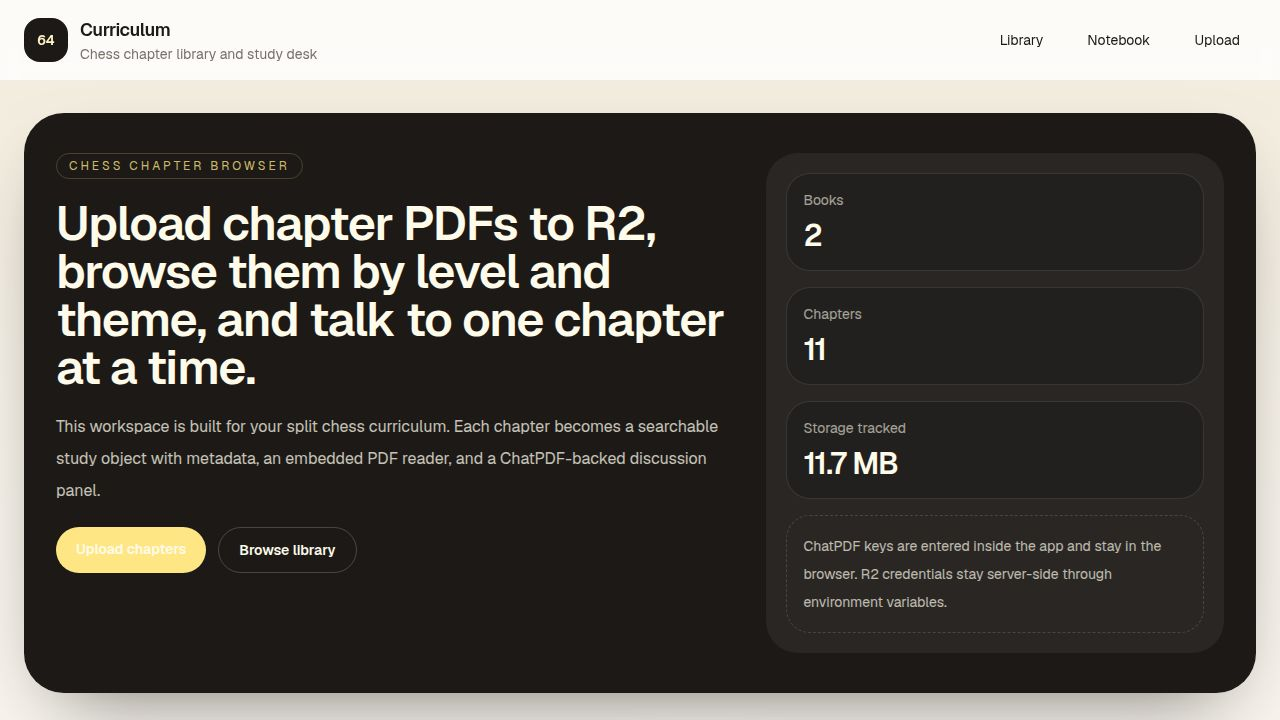
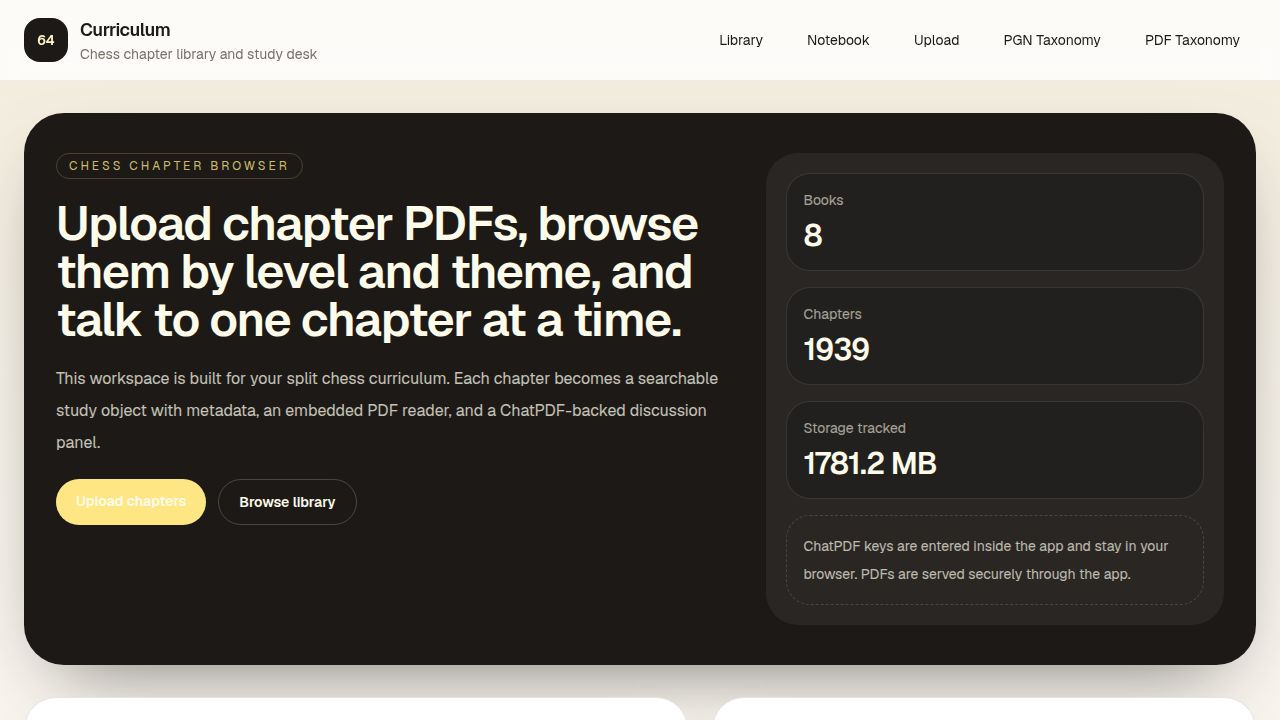
Display PGN comments and annotations within the move list
Adds a `MoveList` component to `PgnViewer.tsx` to render PGN comments and annotations inline with moves, also cleans up internal PGN tags like clock and eval. Imports `React` to support `React.ReactNode`.

Replit-Commit-Author: Agent
Replit-Commit-Session-Id: 7dd84385-3a42-45eb-9dd7-da9d7a1ab8c0
Replit-Commit-Checkpoint-Type: full_checkpoint
Replit-Commit-Event-Id: 95e54331-f0e0-4e5b-8878-0f5f43719fa1
Replit-Commit-Screenshot-Url: https://storage.googleapis.com/screenshot-production-us-central1/ab288c7c-36bb-4167-b498-7e0baf3d1509/7dd84385-3a42-45eb-9dd7-da9d7a1ab8c0/oqmIdIf
Replit-Helium-Checkpoint-Created: true

diff --git a/artifacts/curriculum/src/components/PgnViewer.tsx b/artifacts/curriculum/src/components/PgnViewer.tsx
@@ -1,4 +1,4 @@
-import { useEffect, useMemo, useState } from "react";
+import React, { useEffect, useMemo, useState } from "react";
 import { Chessboard } from "react-chessboard";
 import { FEN_NOTEBOOK_KEY, type NotebookFen } from "@/lib/fen";
 import { buildPositions, normalizePgnDate, parsePgnFile, type ParsedPgnGame } from "@/lib/pgn-parser";
@@ -14,6 +14,36 @@ function badgeClass(status: string) {
   return "bg-emerald-100 text-emerald-700";
 }
 function gameLabel(game: ParsedPgnGame, index: number) { return `${index + 1}. ${game.headers.White ?? "?"} – ${game.headers.Black ?? "?"}`; }
+
+function cleanComment(raw: string): string {
+  return raw.replace(/\[%clk\s+[^\]]+\]/g, "").replace(/\[%eval\s+[^\]]+\]/g, "").replace(/\[%[^\]]+\]/g, "").trim();
+}
+
+function MoveList({ moves, ply, onPly }: { moves: ParsedPgnGame["moves"]; ply: number; onPly: (p: number) => void }) {
+  const rows: React.ReactNode[] = [];
+  let i = 0;
+  while (i < moves.length) {
+    const w = moves[i];
+    const b = moves[i + 1] && moves[i + 1].color === "b" ? moves[i + 1] : undefined;
+    const wComment = w.comment ? cleanComment(w.comment) : "";
+    const bComment = b?.comment ? cleanComment(b.comment) : "";
+    rows.push(
+      <div key={w.ply} className="grid grid-cols-[2rem_1fr_1fr] gap-x-2 items-baseline">
+        <span className="text-stone-400 font-mono text-xs pt-1">{w.moveNumber}.</span>
+        <button onClick={() => onPly(w.ply)} className={`text-left font-mono rounded px-1 ${ply === w.ply ? "bg-amber-100" : "hover:bg-stone-50"}`}>{w.san}</button>
+        {b ? <button onClick={() => onPly(b.ply)} className={`text-left font-mono rounded px-1 ${ply === b.ply ? "bg-amber-100" : "hover:bg-stone-50"}`}>{b.san}</button> : <span />}
+      </div>
+    );
+    if (wComment) rows.push(
+      <p key={`${w.ply}-c`} className="col-span-3 ml-8 text-xs leading-relaxed text-stone-600 italic bg-amber-50 rounded-lg px-3 py-1.5 my-0.5">{wComment}</p>
+    );
+    if (bComment) rows.push(
+      <p key={`${b!.ply}-c`} className="col-span-3 ml-8 text-xs leading-relaxed text-stone-600 italic bg-amber-50 rounded-lg px-3 py-1.5 my-0.5">{bComment}</p>
+    );
+    i += b ? 2 : 1;
+  }
+  return <div className="grid gap-0.5">{rows}</div>;
+}
 
 export function PgnViewer({ pgn, chapterId, chapterTitle, bookTitle }: Props) {
   const [copied, setCopied] = useState(false);
@@ -105,7 +135,7 @@ export function PgnViewer({ pgn, chapterId, chapterTitle, bookTitle }: Props) {
         <section className="rounded-[1.5rem] border border-stone-200 bg-white">
           <div className="grid grid-cols-4 border-b text-xs font-semibold">{(["moves", "headers", "raw", "errors"] as Tab[]).map((t) => <button key={t} onClick={() => setTab(t)} className={`px-2 py-3 capitalize ${tab === t ? "bg-stone-900 text-amber-50" : "text-stone-500"}`}>{t}</button>)}</div>
           <div className="max-h-[640px] overflow-auto p-4 text-sm">
-            {tab === "moves" && <div className="grid grid-cols-[auto_1fr_1fr] gap-x-3 gap-y-1 font-mono">{Array.from({ length: Math.ceil(game.moves.length / 2) }, (_, row) => { const w = game.moves[row * 2]; const b = game.moves[row * 2 + 1]; return [<span key={`${row}-n`} className="text-stone-400">{row + 1}.</span>, <button key={`${row}-w`} onClick={() => setPly(w?.ply ?? 0)} className={`text-left ${ply === w?.ply ? "bg-amber-100" : ""}`}>{w?.san} {w?.clock && <span className="text-[10px] text-stone-400">{w.clock}</span>}</button>, <button key={`${row}-b`} onClick={() => b && setPly(b.ply)} className={`text-left ${ply === b?.ply ? "bg-amber-100" : ""}`}>{b?.san} {b?.clock && <span className="text-[10px] text-stone-400">{b.clock}</span>}</button>]; })}</div>}
+            {tab === "moves" && <MoveList moves={game.moves} ply={ply} onPly={setPly} />}
             {tab === "headers" && <dl className="grid grid-cols-2 gap-3">{["Event","Site","Date","Round","White","Black","Result","WhiteElo","BlackElo","WhiteFideId","BlackFideId","ECO","Opening","TimeControl"].map((k) => <div key={k}><dt className="text-[10px] uppercase tracking-wider text-stone-400">{k}</dt><dd className="font-medium text-stone-800">{gValue(game, k)}</dd></div>)}</dl>}
             {tab === "raw" && <pre className="whitespace-pre-wrap break-words text-xs leading-6">{game.raw}</pre>}
             {tab === "errors" && <div className="grid gap-2">{[...game.errors, ...game.warnings].length ? [...game.errors, ...game.warnings].map((m, i) => <p key={i} className="rounded-xl bg-stone-50 p-3 text-stone-700">{m}</p>) : <p className="text-stone-500">No parser errors or warnings.</p>}</div>}